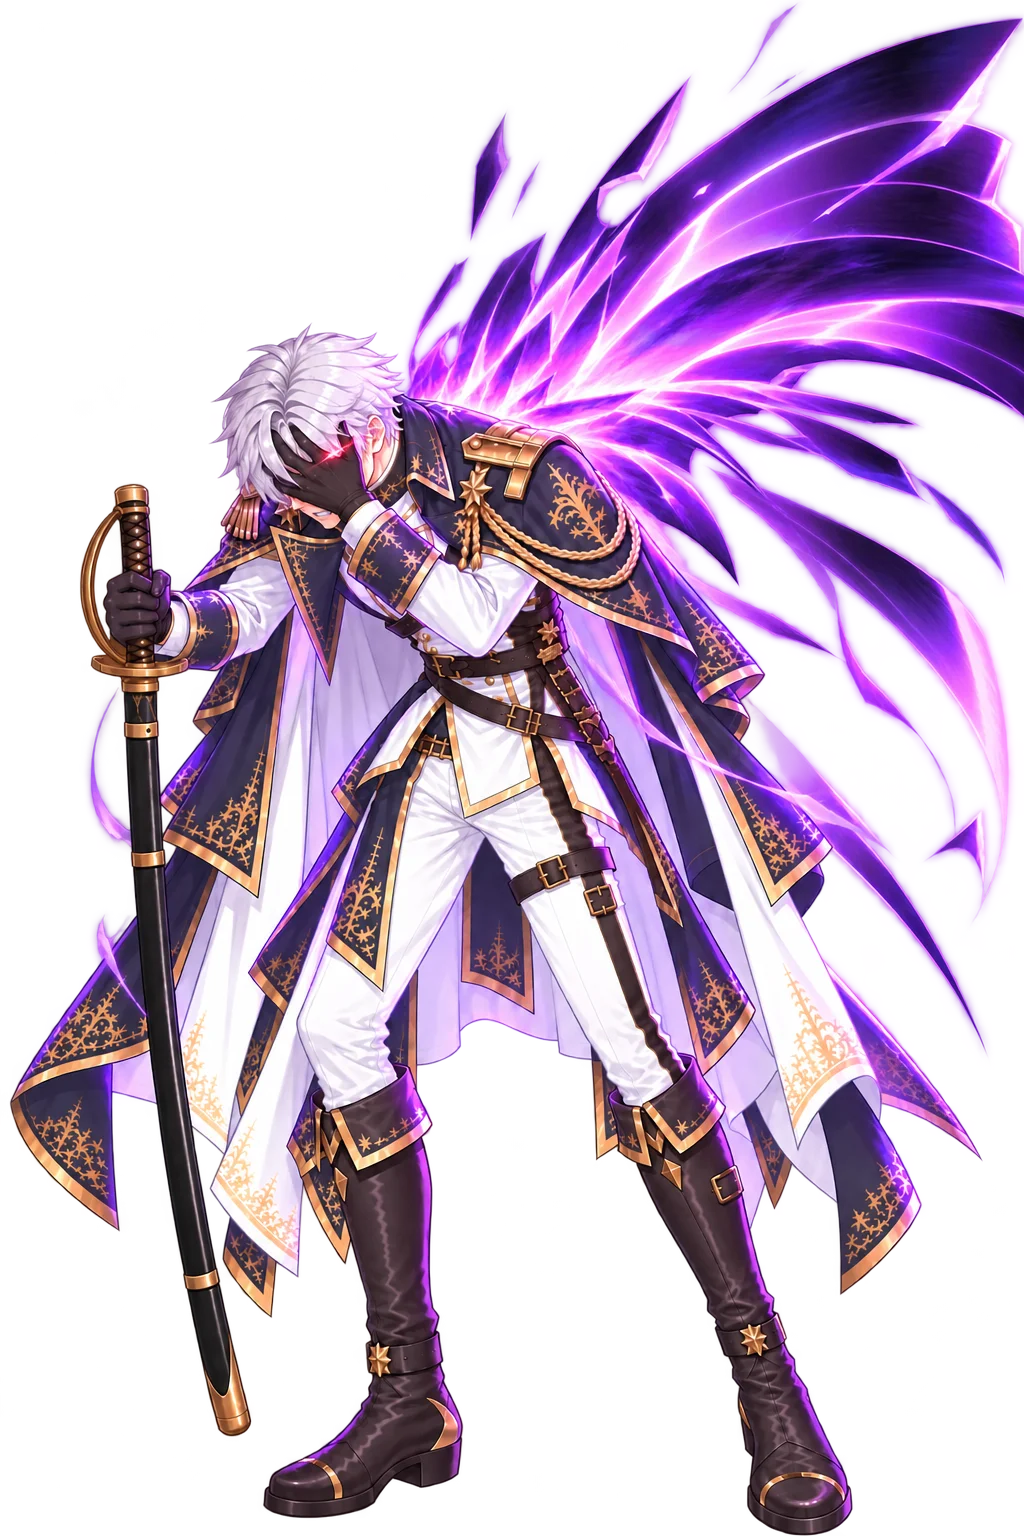
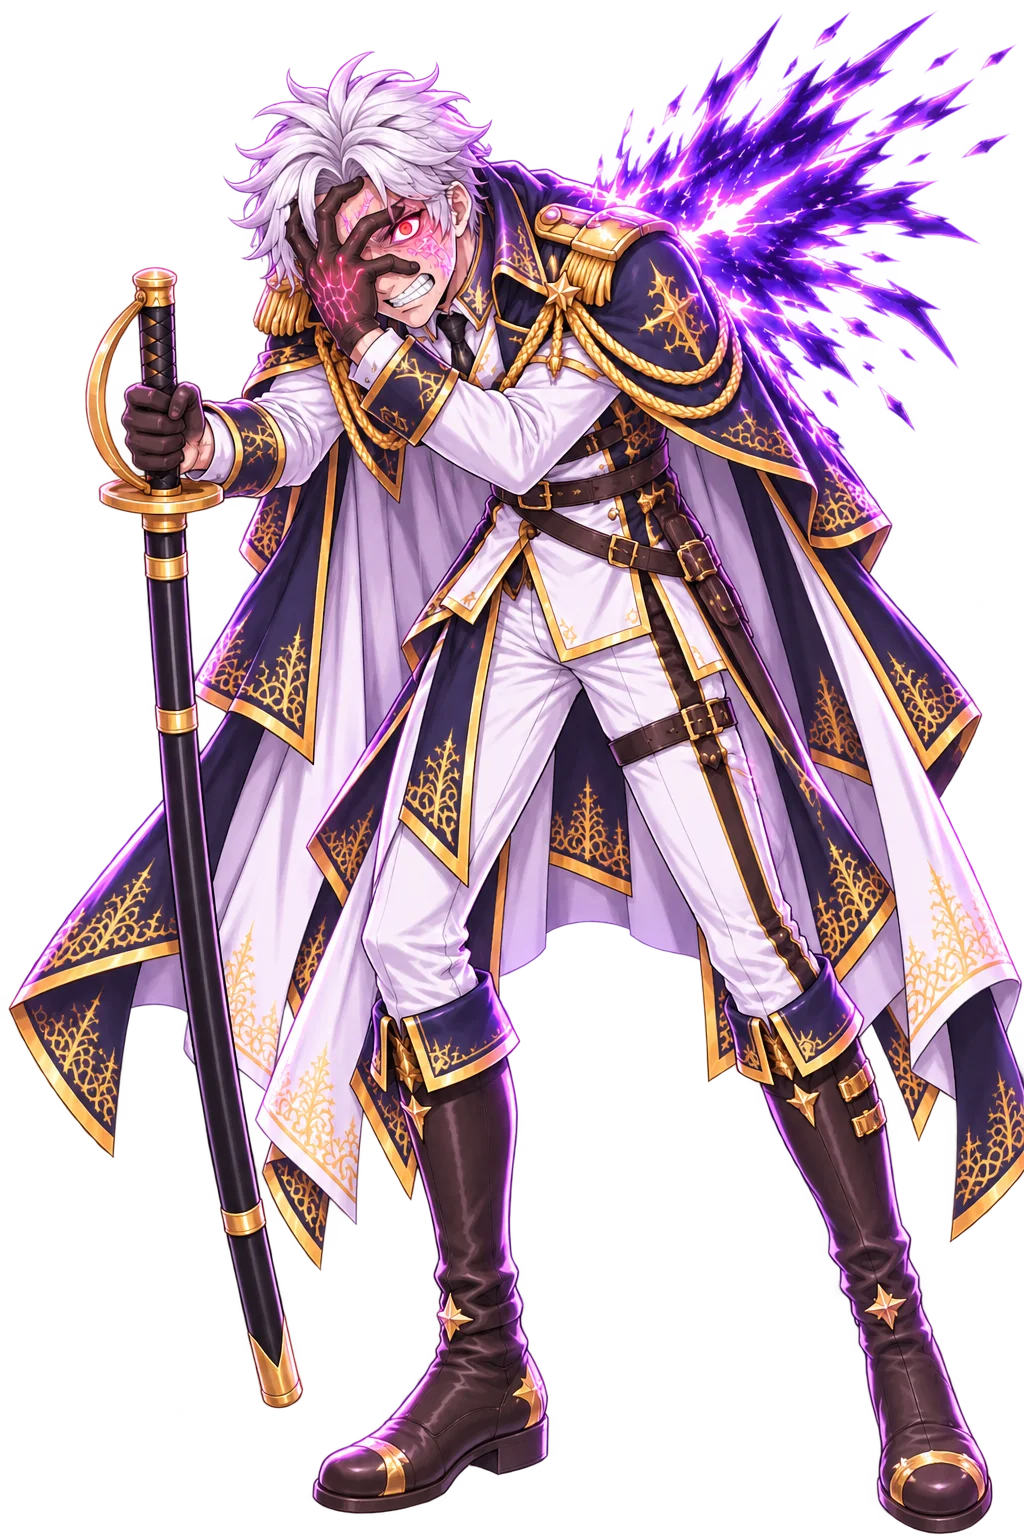
ver -2347 米夏 coverface／coverfaceni 重畫：照真人參考五指用力抓臉、指縫露瘋眼；NI 版改碎裂紫色光翼＋紅光眼與臉上裂紋

diff --git a/index.html b/index.html
@@ -16,7 +16,7 @@
 <link rel="apple-touch-icon" href="resources/background/tivot_emblem.png?v=9220f8bb">
 <title>TIVOT</title>
 <!-- 全域鎖直向（真鎖 + 橫向擋板）；classic script，需在版面就緒前掛上 -->
-<script src="orientation.js?v=2346"></script>
+<script src="orientation.js?v=2347"></script>
 <!-- 離線包（ver -2256）：註冊 sw.js；主畫面 App 裡出現「下載離線包」鈕 -->
 <script src="offline.js"></script>
 <!-- ══ 效能探針・計數層（ver -850，Ray：「沒有辦法寫一個偵測程式進去看是什麼
@@ -65,74 +65,74 @@
 <script type="importmap">
 {
   "imports": {
-    "./audio.js": "./audio.js?v=2346",
-    "./config.js": "./config.js?v=2346",
-    "./i18n.js": "./i18n.js?v=2346",
-    "./main.js": "./main.js?v=2346",
-    "./offline.js": "./offline.js?v=2346",
-    "./orientation.js": "./orientation.js?v=2346",
-    "./state.js": "./state.js?v=2346",
-    "./sw.js": "./sw.js?v=2346",
-    "./telemetry.js": "./telemetry.js?v=2346",
-    "./modules/beatpick.js": "./modules/beatpick.js?v=2346",
-    "./modules/blink.js": "./modules/blink.js?v=2346",
-    "./modules/breath.js": "./modules/breath.js?v=2346",
-    "./modules/combat.js": "./modules/combat.js?v=2346",
-    "./modules/defense.js": "./modules/defense.js?v=2346",
-    "./modules/enemy.js": "./modules/enemy.js?v=2346",
-    "./modules/eyefx.js": "./modules/eyefx.js?v=2346",
-    "./modules/gear.js": "./modules/gear.js?v=2346",
-    "./modules/groundShadow.js": "./modules/groundShadow.js?v=2346",
-    "./modules/haptics.js": "./modules/haptics.js?v=2346",
-    "./modules/inn.js": "./modules/inn.js?v=2346",
-    "./modules/inspector.js": "./modules/inspector.js?v=2346",
-    "./modules/loot.js": "./modules/loot.js?v=2346",
-    "./modules/partner.js": "./modules/partner.js?v=2346",
-    "./modules/saint.js": "./modules/saint.js?v=2346",
-    "./modules/sakura.js": "./modules/sakura.js?v=2346",
-    "./modules/save.js": "./modules/save.js?v=2346",
-    "./modules/settings.js": "./modules/settings.js?v=2346",
-    "./modules/story.js": "./modules/story.js?v=2346",
-    "./modules/sway.js": "./modules/sway.js?v=2346",
-    "./modules/tone.js": "./modules/tone.js?v=2346",
-    "./modules/town.js": "./modules/town.js?v=2346",
-    "./modules/transition.js": "./modules/transition.js?v=2346",
-    "./modules/tutorial.js": "./modules/tutorial.js?v=2346",
-    "./modules/weapon.js": "./modules/weapon.js?v=2346",
-    "./script/bg_index.js": "./script/bg_index.js?v=2346",
-    "./script/blink.js": "./script/blink.js?v=2346",
-    "./script/clock.js": "./script/clock.js?v=2346",
-    "./script/enemies.js": "./script/enemies.js?v=2346",
-    "./script/evaluation.js": "./script/evaluation.js?v=2346",
-    "./script/eyefx.js": "./script/eyefx.js?v=2346",
-    "./script/inventory.js": "./script/inventory.js?v=2346",
-    "./script/loadout.js": "./script/loadout.js?v=2346",
-    "./script/mainScript.js": "./script/mainScript.js?v=2346",
-    "./script/progress.js": "./script/progress.js?v=2346",
-    "./script/shopcards.js": "./script/shopcards.js?v=2346",
-    "./script/shopstock.js": "./script/shopstock.js?v=2346",
-    "./script/speakers.js": "./script/speakers.js?v=2346",
-    "./script/sway.js": "./script/sway.js?v=2346",
-    "./script/town.js": "./script/town.js?v=2346",
-    "./script/weapons.js": "./script/weapons.js?v=2346",
-    "./i18n/en.js": "./i18n/en.js?v=2346",
-    "./i18n/es.js": "./i18n/es.js?v=2346",
-    "./i18n/ja.js": "./i18n/ja.js?v=2346",
-    "./i18n/scriptTr.js": "./i18n/scriptTr.js?v=2346",
-    "./i18n/zh.js": "./i18n/zh.js?v=2346",
-    "./i18n/script/es.classic.js": "./i18n/script/es.classic.js?v=2346",
-    "./i18n/script/es.js": "./i18n/script/es.js?v=2346",
-    "./i18n/ui/es.classic.js": "./i18n/ui/es.classic.js?v=2346",
-    "./i18n/ui/es.js": "./i18n/ui/es.js?v=2346"
+    "./audio.js": "./audio.js?v=2347",
+    "./config.js": "./config.js?v=2347",
+    "./i18n.js": "./i18n.js?v=2347",
+    "./main.js": "./main.js?v=2347",
+    "./offline.js": "./offline.js?v=2347",
+    "./orientation.js": "./orientation.js?v=2347",
+    "./state.js": "./state.js?v=2347",
+    "./sw.js": "./sw.js?v=2347",
+    "./telemetry.js": "./telemetry.js?v=2347",
+    "./modules/beatpick.js": "./modules/beatpick.js?v=2347",
+    "./modules/blink.js": "./modules/blink.js?v=2347",
+    "./modules/breath.js": "./modules/breath.js?v=2347",
+    "./modules/combat.js": "./modules/combat.js?v=2347",
+    "./modules/defense.js": "./modules/defense.js?v=2347",
+    "./modules/enemy.js": "./modules/enemy.js?v=2347",
+    "./modules/eyefx.js": "./modules/eyefx.js?v=2347",
+    "./modules/gear.js": "./modules/gear.js?v=2347",
+    "./modules/groundShadow.js": "./modules/groundShadow.js?v=2347",
+    "./modules/haptics.js": "./modules/haptics.js?v=2347",
+    "./modules/inn.js": "./modules/inn.js?v=2347",
+    "./modules/inspector.js": "./modules/inspector.js?v=2347",
+    "./modules/loot.js": "./modules/loot.js?v=2347",
+    "./modules/partner.js": "./modules/partner.js?v=2347",
+    "./modules/saint.js": "./modules/saint.js?v=2347",
+    "./modules/sakura.js": "./modules/sakura.js?v=2347",
+    "./modules/save.js": "./modules/save.js?v=2347",
+    "./modules/settings.js": "./modules/settings.js?v=2347",
+    "./modules/story.js": "./modules/story.js?v=2347",
+    "./modules/sway.js": "./modules/sway.js?v=2347",
+    "./modules/tone.js": "./modules/tone.js?v=2347",
+    "./modules/town.js": "./modules/town.js?v=2347",
+    "./modules/transition.js": "./modules/transition.js?v=2347",
+    "./modules/tutorial.js": "./modules/tutorial.js?v=2347",
+    "./modules/weapon.js": "./modules/weapon.js?v=2347",
+    "./script/bg_index.js": "./script/bg_index.js?v=2347",
+    "./script/blink.js": "./script/blink.js?v=2347",
+    "./script/clock.js": "./script/clock.js?v=2347",
+    "./script/enemies.js": "./script/enemies.js?v=2347",
+    "./script/evaluation.js": "./script/evaluation.js?v=2347",
+    "./script/eyefx.js": "./script/eyefx.js?v=2347",
+    "./script/inventory.js": "./script/inventory.js?v=2347",
+    "./script/loadout.js": "./script/loadout.js?v=2347",
+    "./script/mainScript.js": "./script/mainScript.js?v=2347",
+    "./script/progress.js": "./script/progress.js?v=2347",
+    "./script/shopcards.js": "./script/shopcards.js?v=2347",
+    "./script/shopstock.js": "./script/shopstock.js?v=2347",
+    "./script/speakers.js": "./script/speakers.js?v=2347",
+    "./script/sway.js": "./script/sway.js?v=2347",
+    "./script/town.js": "./script/town.js?v=2347",
+    "./script/weapons.js": "./script/weapons.js?v=2347",
+    "./i18n/en.js": "./i18n/en.js?v=2347",
+    "./i18n/es.js": "./i18n/es.js?v=2347",
+    "./i18n/ja.js": "./i18n/ja.js?v=2347",
+    "./i18n/scriptTr.js": "./i18n/scriptTr.js?v=2347",
+    "./i18n/zh.js": "./i18n/zh.js?v=2347",
+    "./i18n/script/es.classic.js": "./i18n/script/es.classic.js?v=2347",
+    "./i18n/script/es.js": "./i18n/script/es.js?v=2347",
+    "./i18n/ui/es.classic.js": "./i18n/ui/es.classic.js?v=2347",
+    "./i18n/ui/es.js": "./i18n/ui/es.js?v=2347"
   }
 }
 </script>
 <!-- BUST:END -->
-<link rel="stylesheet" href="style.css?v=2346">
+<link rel="stylesheet" href="style.css?v=2347">
   <!-- 拾得道具／道具欄／商店／懸賞榜（ver -380 抽出，飛行頁共用同一份）。
        ⚠ `data-lootsheet` 是給 `modules/loot.js` 認的：它看到已經掛過就不再掛一次。
          飛行頁沒有這一行，由那支模組自己掛上去。 -->
-  <link rel="stylesheet" href="css/lootsheet.css?v=2346" data-lootsheet="1">
+  <link rel="stylesheet" href="css/lootsheet.css?v=2347" data-lootsheet="1">
 <!-- 主畫面 App（standalone）偵測：首繪前在 <html> 蓋 .standalone，
      供 CSS 修 iOS 26 版面視窗少算頂部安全區高度（底部露黑帶）的問題 -->
 <script>
@@ -778,6 +778,6 @@
      ⚠ src 是**按下去才給**的（lazy）：不然每次開機都要多載一整個飛行頁。 -->
 <iframe id="flightFrame" title="飛行"></iframe>
 
-<script type="module" src="main.js?v=2346"></script>
+<script type="module" src="main.js?v=2347"></script>
 </body>
 </html>

diff --git a/flight/index.html b/flight/index.html
@@ -3,7 +3,7 @@
 <head>
 <meta charset="utf-8">
 <meta name="viewport" content="width=device-width,initial-scale=1,maximum-scale=1,user-scalable=no,viewport-fit=cover">
-<script src="../orientation.js?v=2346"></script>
+<script src="../orientation.js?v=2347"></script>
 <script>
 /* 介面字譯文（ver -1909）：這一頁是非模組，程式一開跑就讀字串 —— 所以譯文表要**同步**載
    （document.write，只在選了有譯文的語言時）。語言判定與 i18n.js 的 LANG 同一套
@@ -11,7 +11,7 @@
 (function(){
   var l=null; try{ l=localStorage.getItem('tivot.lang'); }catch(e){}
   if(!l){ try{ var n=(navigator.languages&&navigator.languages[0])||navigator.language||''; if(String(n).toLowerCase().indexOf('es')===0) l='es'; }catch(e){} }
-  if(['es'].indexOf(l)>=0) document.write('<script src="../i18n/script/'+l+'.classic.js?v=2346"><\/script><script src="../i18n/ui/'+l+'.classic.js?v=2346"><\/script>');
+  if(['es'].indexOf(l)>=0) document.write('<script src="../i18n/script/'+l+'.classic.js?v=2347"><\/script><script src="../i18n/ui/'+l+'.classic.js?v=2347"><\/script>');
 })();
 function i18nT(s){ var t=window.__TIVOT_TR; return (t && typeof s==='string' && t[s]!=null) ? t[s] : s; }
 document.addEventListener('DOMContentLoaded', function(){
@@ -236,7 +236,7 @@ document.addEventListener('DOMContentLoaded', function(){
   /* ver -2217：門圖含楣（kerberos_gate，＝主遊戲同一張）—— 底圖往上延伸到楣的上緣（--fk-gate-top，負值，layoutFKerb 寫）。
      畫在 ::before：門的子元素（紋章／箭／鉚釘）排在它之後，自然疊在上面。 */
   #fkerbDoor::before{content:'';position:absolute;left:0;right:0;top:var(--fk-gate-top,0px);bottom:0;
-    background-image:url('../resources/vfx/kerberos_gate.webp?v=2346');
+    background-image:url('../resources/vfx/kerberos_gate.webp?v=2347');
     background-repeat:no-repeat;background-size:100% 100%;pointer-events:none;}
   #fkerb.rise #fkerbDoor{transform:translateY(calc(var(--fkerb-rise,0px) * -1));}
   /* 楣與其餘零件：全部是門的子元素＝同一剛體，門上推它們跟著上去
@@ -259,8 +259,8 @@ document.addEventListener('DOMContentLoaded', function(){
       radial-gradient(circle at 50% 22%, rgba(0,0,0,.72) 40%, rgba(0,0,0,0) 78%);
     box-shadow:inset 0 3px 7px rgba(0,0,0,.85);}
   #fkerbGear .fkg-shine{position:absolute;inset:0;mix-blend-mode:screen;opacity:.8;
-    -webkit-mask-image:url("../resources/vfx/kerberos_gear.webp?v=2346");
-    mask-image:url("../resources/vfx/kerberos_gear.webp?v=2346");
+    -webkit-mask-image:url("../resources/vfx/kerberos_gear.webp?v=2347");
+    mask-image:url("../resources/vfx/kerberos_gear.webp?v=2347");
     -webkit-mask-size:100% 100%;mask-size:100% 100%;
     -webkit-mask-repeat:no-repeat;mask-repeat:no-repeat;
     background:linear-gradient(114deg,
@@ -280,8 +280,8 @@ document.addEventListener('DOMContentLoaded', function(){
     filter:drop-shadow(0 3px 7px rgba(0,0,0,.9)) drop-shadow(0 0 2px rgba(0,0,0,.8));}
   #fkerbPend .fkp-shine{position:absolute;inset:0;pointer-events:none;
     mix-blend-mode:screen;opacity:.85;
-    -webkit-mask-image:url("../resources/vfx/kerberos_pendant.webp?v=2346");
-    mask-image:url("../resources/vfx/kerberos_pendant.webp?v=2346");
+    -webkit-mask-image:url("../resources/vfx/kerberos_pendant.webp?v=2347");
+    mask-image:url("../resources/vfx/kerberos_pendant.webp?v=2347");
     -webkit-mask-size:100% 100%;mask-size:100% 100%;
     -webkit-mask-repeat:no-repeat;mask-repeat:no-repeat;
     background:linear-gradient(114deg,
@@ -646,23 +646,23 @@ img:not([src]), img[src=""], img.img-broken{visibility:hidden !important;}
        ⚠ 要有，否則交棒那一格齒輪會憑空冒出來（同吊墜的理由）。
        ⚠ 排在 `.fk-plate` 之前 ＝ 團徽之下、槍棺之上。 -->
   <div id="fkerbGear"><i class="fkg-well"></i>
-    <img src="../resources/vfx/kerberos_gear.webp?v=2346" alt=""><i class="fkg-shine"></i></div>
+    <img src="../resources/vfx/kerberos_gear.webp?v=2347" alt=""><i class="fkg-shine"></i></div>
   <div id="fkerbGearSm"><i class="fkg-well"></i>
-    <img src="../resources/vfx/kerberos_gear.webp?v=2346" alt=""></div>
-  <img class="fk-plate" src="../resources/vfx/kerberos_plate.webp?v=2346" alt="">
-  <img class="fk-arrow n" src="../resources/vfx/kerberos_arrow.webp?v=2346" alt="">
-  <img class="fk-arrow e" src="../resources/vfx/kerberos_arrow.webp?v=2346" alt="">
-  <img class="fk-arrow s" src="../resources/vfx/kerberos_arrow.webp?v=2346" alt="">
-  <img class="fk-arrow w" src="../resources/vfx/kerberos_arrow.webp?v=2346" alt="">
-  <img class="fk-rivet r10" src="../resources/vfx/kerberos_rivet.webp?v=2346" alt="">
-  <img class="fk-rivet r2"  src="../resources/vfx/kerberos_rivet.webp?v=2346" alt="">
-  <img class="fk-rivet r4"  src="../resources/vfx/kerberos_rivet.webp?v=2346" alt="">
-  <img class="fk-rivet r8"  src="../resources/vfx/kerberos_rivet.webp?v=2346" alt="">
+    <img src="../resources/vfx/kerberos_gear.webp?v=2347" alt=""></div>
+  <img class="fk-plate" src="../resources/vfx/kerberos_plate.webp?v=2347" alt="">
+  <img class="fk-arrow n" src="../resources/vfx/kerberos_arrow.webp?v=2347" alt="">
+  <img class="fk-arrow e" src="../resources/vfx/kerberos_arrow.webp?v=2347" alt="">
+  <img class="fk-arrow s" src="../resources/vfx/kerberos_arrow.webp?v=2347" alt="">
+  <img class="fk-arrow w" src="../resources/vfx/kerberos_arrow.webp?v=2347" alt="">
+  <img class="fk-rivet r10" src="../resources/vfx/kerberos_rivet.webp?v=2347" alt="">
+  <img class="fk-rivet r2"  src="../resources/vfx/kerberos_rivet.webp?v=2347" alt="">
+  <img class="fk-rivet r4"  src="../resources/vfx/kerberos_rivet.webp?v=2347" alt="">
+  <img class="fk-rivet r8"  src="../resources/vfx/kerberos_rivet.webp?v=2347" alt="">
   <!-- 吊墜（ver -412）：與主遊戲同一套（見 index.html 的 #kerbPend 與 style.css）。
        ⚠ 這一頁**必須也有** —— 遭遇時門是在這裡推上來的，交棒之後主遊戲那一半才接手；
          只有一邊掛吊墜的話，交棒那一格會憑空多出一個東西。 -->
   <div id="fkerbPend"><div class="fkp-swing"><div class="fkp-idle">
-    <img src="../resources/vfx/kerberos_pendant.webp?v=2346" alt=""><i class="fkp-shine"></i>
+    <img src="../resources/vfx/kerberos_pendant.webp?v=2347" alt=""><i class="fkp-shine"></i>
   </div></div></div>
 </div></div>
 <div id="boot">
@@ -684,11 +684,11 @@ img:not([src]), img[src=""], img.img-broken{visibility:hidden !important;}
   <div id="bMsg"><small id="bootMsg"></small></div>
 </div>
 
-<script src="settlement.js?v=2346"></script>
+<script src="settlement.js?v=2347"></script>
 <!-- 閒聊對話的**內容**獨立成一支：方便加台詞、加觸發條件而不必碰引擎。
      ⚠ 一般 <script>（非 module）→ TALKS / talkPeriod / talkPick 是全域，
        而且會在下面這段 inline 之前執行完，所以 inline 內可以直接用。 -->
-<script src="talks.js?v=2346"></script>
+<script src="talks.js?v=2347"></script>
 <script>
 /* 破圖框一律不畫（ver -1881，同主頁 main.js 那一支，這一頁是另一個 document）。 */
 document.addEventListener('error', e=>{ const t=e.target; if(t && t.tagName==='IMG') t.classList.add('img-broken'); }, true);
@@ -764,7 +764,7 @@ const COLOR_URL  = 'silvermoon_terrain.png?v=b18827be'  + TERRAIN_V;
    以前是手寫的，於是從 -911 起就沒有人記得動它 —— 而 HUD 上的版本號正是 Ray
    在手機上確認「我現在跑的是哪一版」的唯一依據（鐵律 7：一個量一個計算點；
    ver -626：版本號不動就等於沒有版本號）。**不要手改。** */
-const FLIGHT_VER = 'ver -2346';
+const FLIGHT_VER = 'ver -2347';
 const MAP_SCALE  = 20;
 const INV_SCALE  = 1/MAP_SCALE;
 const PEAK_SCALE = 520;   // 高度圖 255 對應的世界高度（越大山越陡）

diff --git a/script/speakers.js b/script/speakers.js
@@ -1657,8 +1657,8 @@ export const ART = {
     draw:       { src:'resources/si/misha_si_draw.webp?v=68b1b653', top:6, bot:1534, fx:0.434 },   // ver -1728：Ray 新出的拔刀圖（姿勢換了，取景重量；美術 09-25）
     salute:     { src:'resources/si/misha_si_salute.webp', top:9, bot:1520, fx:0.447 },
     side:       { src:'resources/si/misha_si_side.webp', top:16, bot:1512, fx:0.37 },
-    coverfaceni:{ blink:'off', rescale:true, src:'resources/si/misha_si_coverfaceni.webp', top:324, bot:1496, fx:0.322 },   // ver -2346（Ray）：同一張加 NI —— 指縫透出狂氣紅光、左後方紫色極光單翼（人畫小了 ⇒ rescale；top/bot 量的是人不是翼）
-    coverface:  { blink:'off', src:'resources/si/misha_si_coverface.webp', top:46, bot:1503, fx:0.380 },   // ver -2346（Ray）：單手按住整張臉、低頭看不到眼（wound 當底）
+    coverfaceni:{ blink:'off', rescale:true, src:'resources/si/misha_si_coverfaceni.webp?v=90764d71', top:56, bot:1496, fx:0.342 },   // ver -2347（Ray）：同一張加 NI —— 指縫紅光＋臉上裂紋、左後方碎裂紫色光翼（照參考）；top/bot 量的是人不是翼
+    coverface:  { blink:'off', src:'resources/si/misha_si_coverface.webp?v=61685e1f', top:33, bot:1503, fx:0.370 },   // ver -2347（Ray）：五指張開用力抓臉、指縫露出瘋狂的眼（照真人參考重畫）
     wound:      { fxShift:0, blink:'off', src:'resources/si/misha_si_wound.webp?v=3a49219d', top:34, bot:1499, fx:0.403 },
     close:      { src:'resources/si/misha_si_close.webp?v=47dd4349', top:14, bot:1509, fx:0.469 },
     back:       { src:'resources/si/misha_si_back.webp', top:12, bot:1496, fx:0.458 },

diff --git a/config.js b/config.js
@@ -87,7 +87,7 @@ export const HITFX = {
  *     以為是快取卡住 —— 版本號不動就等於沒有版本號）。
  *  ⚠ 它同時是**暖開機戳記的鑰匙**（main.js 的 `WARM_BOOT`）：版本一變，
  *    上一版的戳記就失效 → 下一次開機重跑完整讀取。那正是改版後該有的行為。 */
-export const VERSION = 'ver 2026.11.01-2346';
+export const VERSION = 'ver 2026.11.01-2347';
 
 /* ══ 空中怪 16 隻的戰鬥卡（ver -2268）══ 每一隻一張 `flight_<鍵>`（飛行頁 `battleIdFor` 的命名），
    內容同羽蛇那一場：船戰、艦載武器音、連射間隔 180ms。⚠ 這份鍵清單在三處：這裡／
@@ -6152,6 +6152,8 @@ export const ASSET_VER = {
   'misha_si_closeopen': '102292c5',
   'misha_si_closeopen_closed': '658c29c2',
   'misha_si_closeopen_half': '0379d48b',
+  'misha_si_coverface': '61685e1f',
+  'misha_si_coverfaceni': '90764d71',
   'misha_si_draw': '68b1b653',
   'misha_si_draw_closed': 'ff69810f',
   'misha_si_draw_half': '45f86f5a',

diff --git a/modules/story.js b/modules/story.js
@@ -3588,7 +3588,7 @@ const KERB_DIR='resources/vfx/';
    cache-buster（§5：檔名沒變、內容變了，瀏覽器照樣拿舊的那一份，而症狀只是
    「看起來沒變」）。版本號由 `tools/bust.py` 同步，路徑只由 `kerbUrl()` 組（鐵律 8）——
    飛行頁那一半是另一個 document，各有一份，改一邊要改另一邊。 */
-const KERB_V='?v=2346';
+const KERB_V='?v=2347';
 const kerbUrl=n=>KERB_DIR+n+'.webp'+KERB_V;
 /* 門的圖（ver -2218）：**每一道門都要先載完**（劇情讀取頁 `preloadStory`、城鎮那道 `loadScene`）——
    Ray：「讀圖的時候先跑槍棺出來才讀楣」「往上推的時候楣會消失」：合成後的 `kerberos_gate`（門＋楣）
